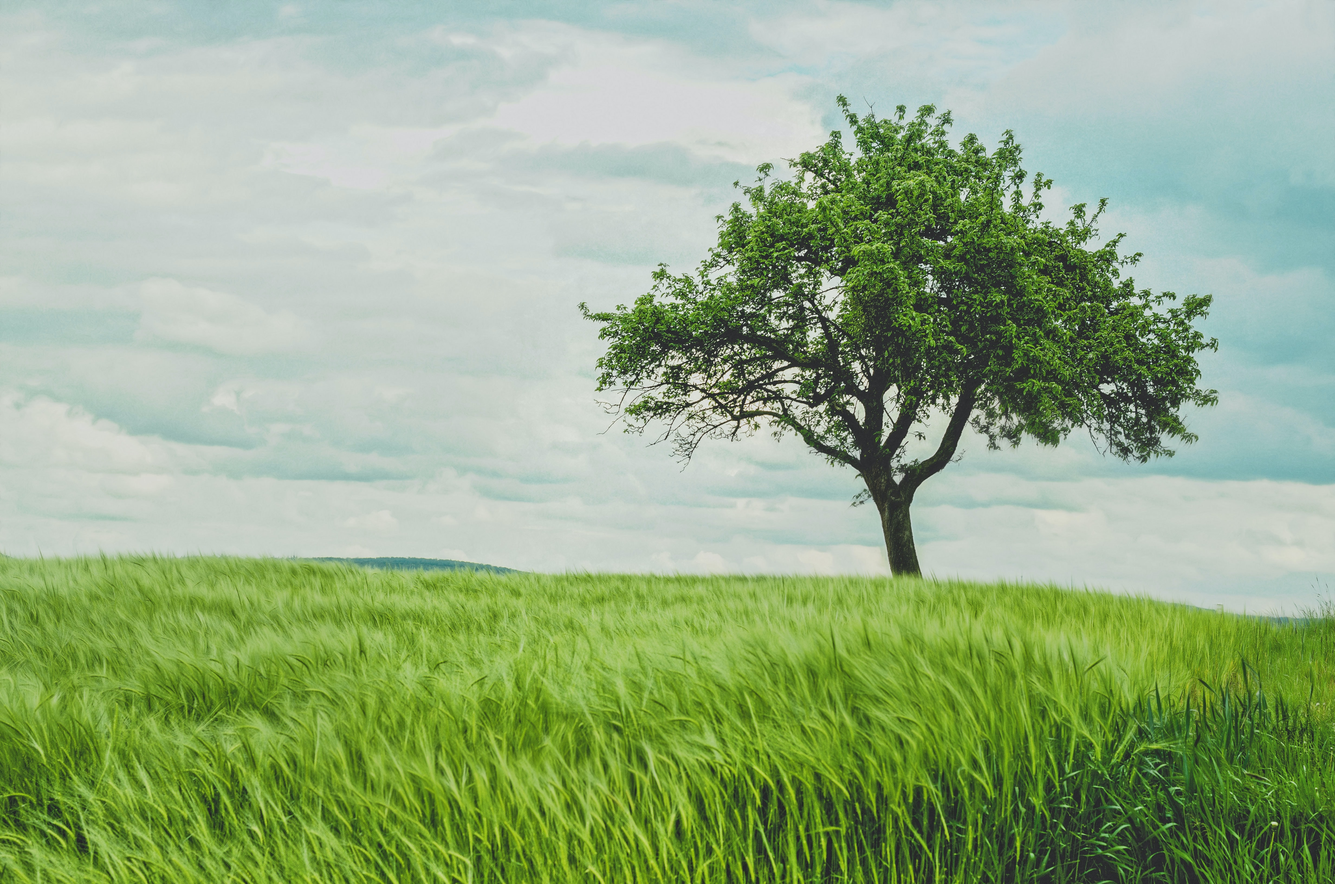
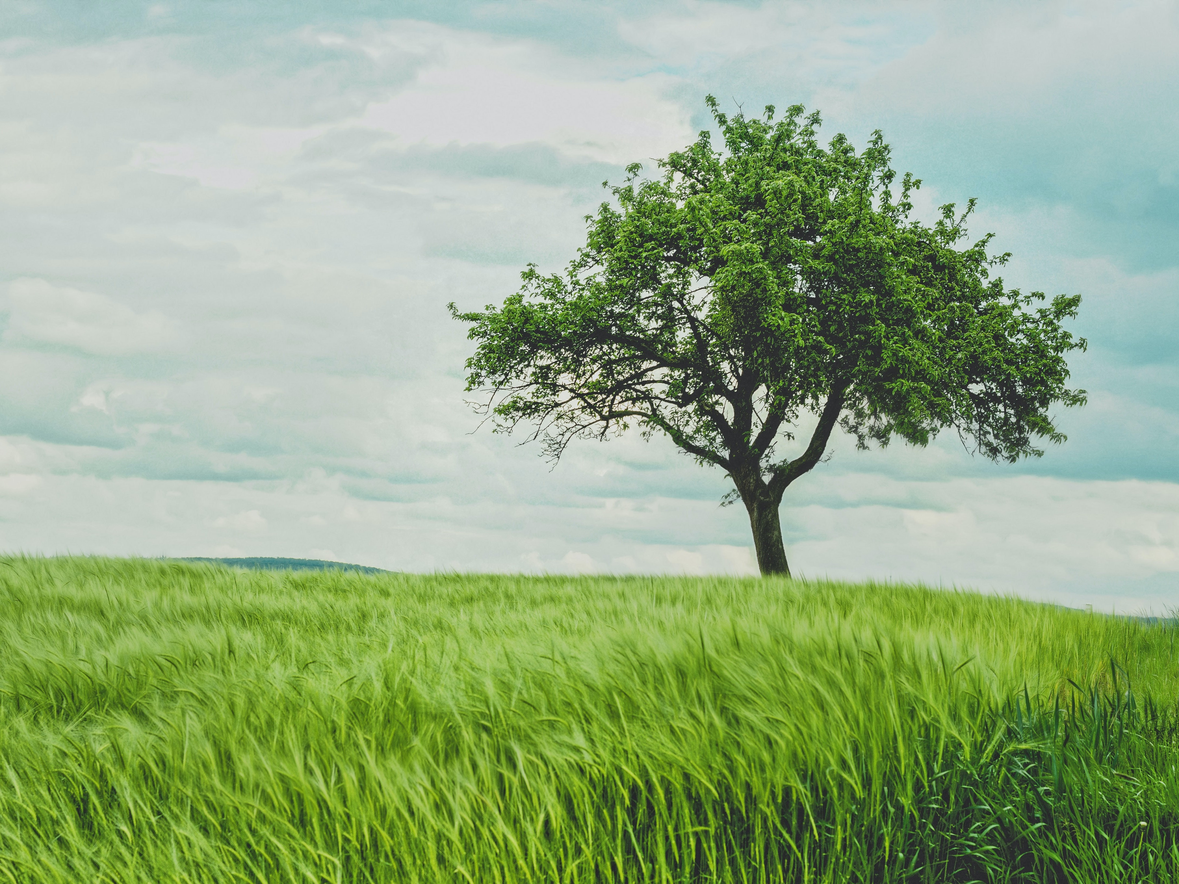
Start Overview section, adjust images

diff --git a/style.css b/style.css
@@ -140,7 +140,7 @@ header {
     align-items: flex-start;
     height: 23.5rem;
     background-image: url('./images/sun.jpg');
-    background-position: top;
+    background-position: center center;
     background-size: cover;
     background-repeat: no-repeat;
   }
@@ -165,27 +165,129 @@ header {
   }
   
   #intro-text h1 {
+    font-family: 'Audiowide', cursive;
     font-size: 5.125rem;
   }
   
-  #sign-up-cta h2 {
+  #intro-text h2 {
     font-size: 2.25rem;
   }
+
+  @media only screen and (max-width: 895px) {
+    #intro {
+      align-items: center;
+      justify-content: center;
+      height: 28rem;
+    }
   
-  #sign-up-cta span strong {
+    #intro-text {
+      position: static;
+      width: auto;
+      height: auto;
+      background-color: transparent;
+      border: none;
+    }
+  
+    #intro-text .content {
+      margin-top: 0;
+    }  
+      
+    #intro-text h1 {
+      font-size: 3.125rem;
+    }
+  
+    #intro-text h2 {
+      font-size: 2.25rem;
+    }
+  }
+  
+  @media only screen and (max-width: 600px) {
+    #intro {
+      height: 20rem;
+    }
+  
+    #intro-text h1 {
+      font-size: 2.25rem;
+    }
+  
+    #intro-text h2 {
+      font-size: 2rem;
+    }
+  }
+  
+/* OVERVIEW */
+
+#overview {
+    display: flex;
+    justify-content: space-between;
+    padding: 4rem 5%;
+    background-color: #f3f3f3;
+  }
+  
+  .feature {
+    flex: 1;
+    padding: 2rem;
+    margin: 0px 1.25rem;
+    background-color: white;
+  }
+  
+  .feature .image-container {
+    width: 90%;
+    height: 65%;
+    margin: 0 auto;
+  }
+  
+  .feature .content {
+    padding: 2.5rem 0;
+  }
+  
+  .feature h2 {
+    padding-bottom: .5rem;
+    font-size: 2.25rem;
     font-weight: bold;
+    color: #4a4a4a;
   }
   
-  #sign-up-cta .cursive {
-    font-family: "Damion", cursive;
-  }
-  
-  #sign-up-cta .striking {
-    font-family: "Rubik", sans-serif;
-    padding-bottom: .75rem;
+  .feature h3 {
+    font-size: 1rem;
+    line-height: 1.2;
+    font-weight: 300;
+    color: #4a4a4a;
   }
 
+  @media only screen and (max-width: 895px) {
+    #overview {
+      padding: 1rem;
+    }
   
-h1 {
-    font-family: 'Audiowide', cursive;
-}  
+    .feature {
+      margin: 0px .5rem;
+      padding: 1rem;
+    }
+  
+    .feature h2 {
+      font-size: 2rem;
+      line-height: 1.3;
+    }
+  
+    .feature h3 {
+      font-size: .875rem;
+      line-height: 1.4;
+    }
+  }
+  
+  @media only screen and (max-width: 600px) {
+    #overview {
+      flex-flow: column;
+      padding: 0;
+    }
+  
+    .feature {
+      margin: 0;
+      padding: 1.25rem 1rem 0 1rem;
+    }
+  
+    .feature .content {
+      padding: 1.25rem 0 1.875rem 0;
+    }
+  }

diff --git a/index.html b/index.html
@@ -60,6 +60,43 @@
         </div>
       </div>
     </div>
+
+    <div id="overview">
+        <div class="feature">
+          <div class="center">
+            <div class="image-container">
+              <img src="./images/tech.jpg" />
+            </div>
+            <div class="content">
+              <h2>Technology</h2>
+              <h3>How we harness the power of the sun</h3>
+            </div>
+          </div>
+        </div>
+        <div class="feature">
+          <div class="center">
+            <div class="image-container">
+              <img src="./images/research2.jpg" />
+            </div>
+            <div class="content">
+              <h2>Research</h2>
+              <h3>Developing our expertise</h3>
+            </div>
+          </div>
+        </div>
+        <div class="feature">
+            <div class="center">
+              <div class="image-container">
+                <img src="./images/tree2.jpg" />
+              </div>
+              <div class="content">
+                <h2>Our mission</h2>
+                <h3>The source of all our energy needs</h3>
+              </div>
+            </div>
+          </div>
+      </div>
+
   </div>  
 
 
